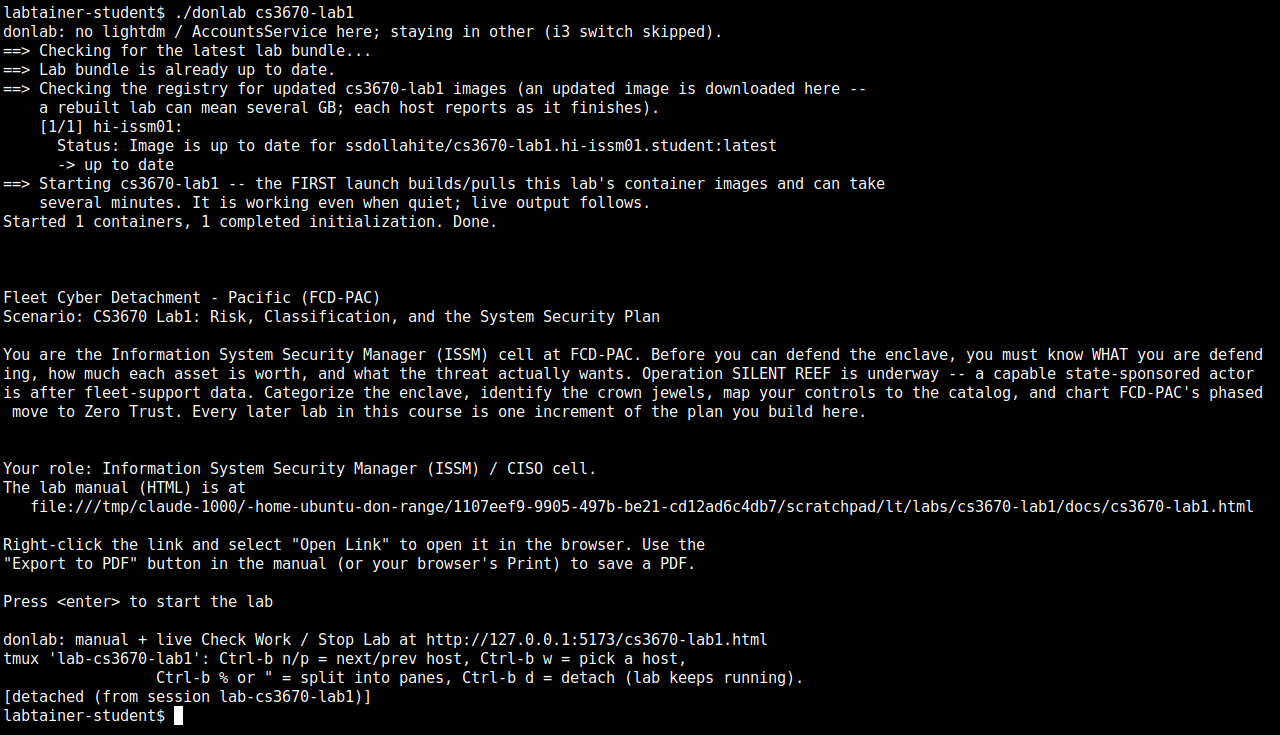
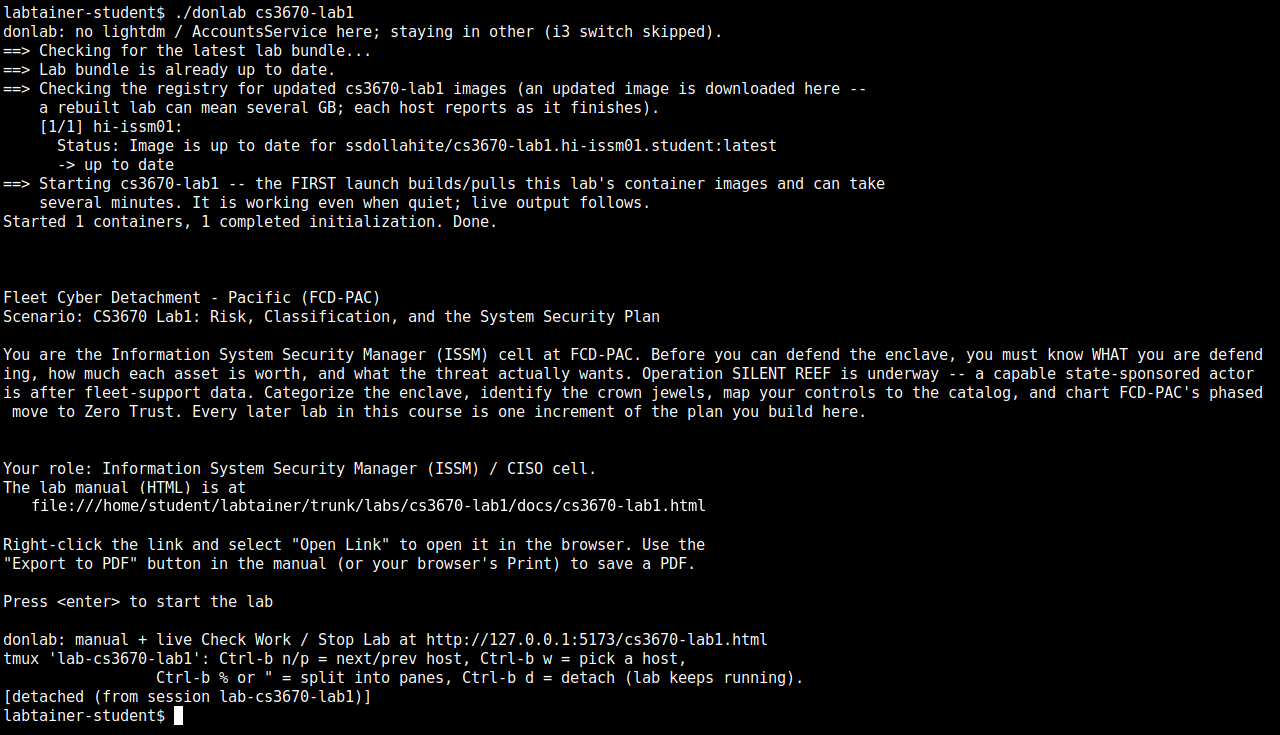
README: replace dev-box manual path in the donlab screenshot with the appliance path
Claude-Session: https://claude.ai/code/session_01AaSdgzYGLNDb9nAMyxsEmw

Changed region(s): [[0.0312, 0.6585, 0.9688, 0.7184]]

diff --git a/README.md b/README.md
@@ -233,9 +233,9 @@ tmux keys:
 
 ![donlab second run: bundle and images up to date, scenario brief, manual URL, tmux hint](docs/img/donlab-run.png)
 
-*Captured on a development machine, so the Labtainers tree sits under a temporary path
-and the i3 switch is skipped. On the appliance the paths are under
-`/home/student/labtainer`.*
+*Captured on a development machine, so the i3 switch is skipped and the manual path
+shown in the second image has been replaced with the appliance path
+(`/home/student/labtainer/trunk/labs/<lab>/docs/<lab>.html`).*
 
 ### 4.3 The manual
 
